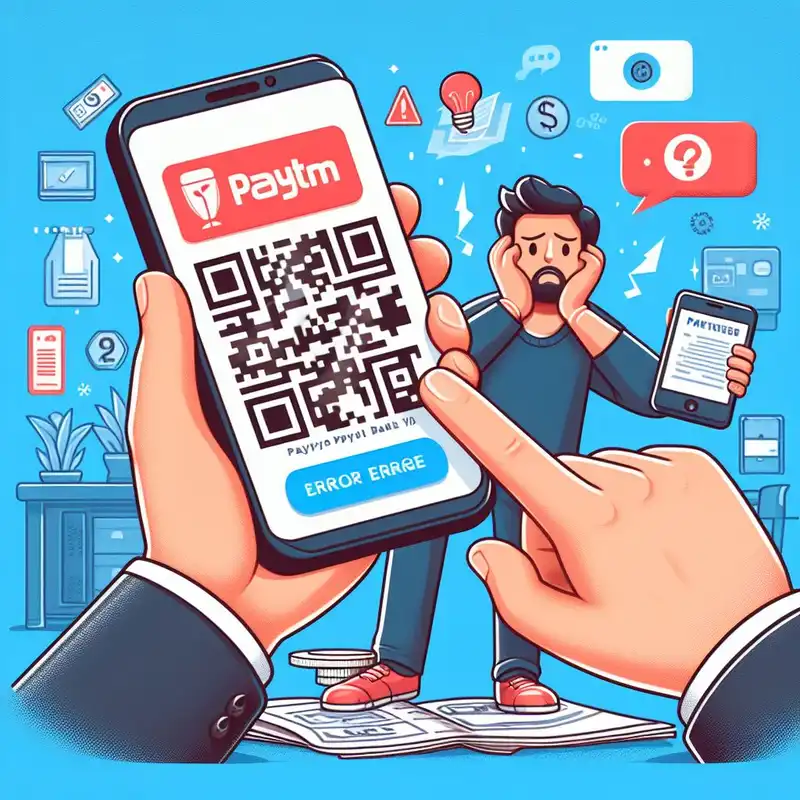
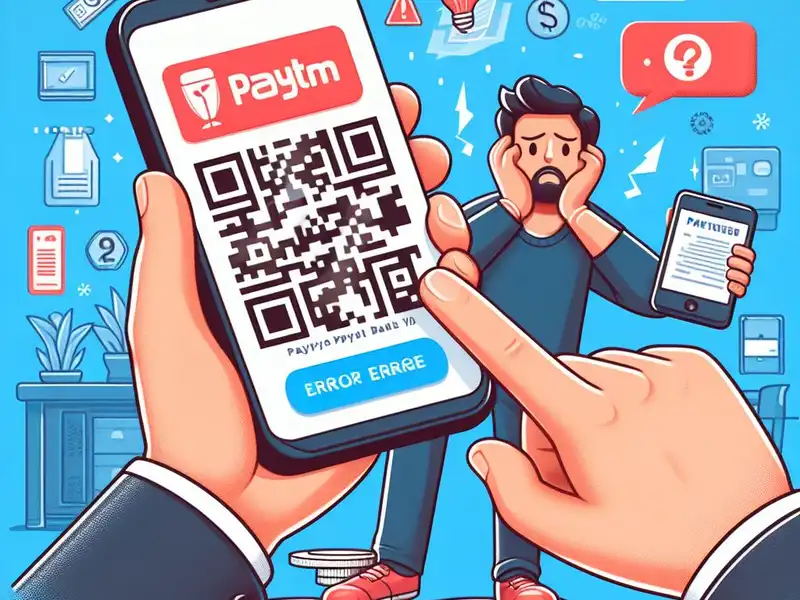
fix: Distinct image sizes in blog posts

diff --git a/components/PostCollectionBoxed.tsx b/components/PostCollectionBoxed.tsx
@@ -22,7 +22,7 @@ const BlogCard = ({ post }) => {
     <>
       <div className="w-full px-4 md:w-1/2 lg:w-1/3">
         <div className="mb-10 w-full">
-          <div className="mb-8 overflow-hidden rounded relative">
+          <div className="mb-4 overflow-hidden rounded relative">
             <Image
               width={700}
               height={480}

diff --git a/README.md b/README.md
@@ -2,4 +2,11 @@
 
 This is a repository to create new Blog, using NextJS. This repository is a customized clone of [the original repository](https://github.com/timlrx/tailwind-nextjs-starter-blog).
 
+## Images
 
+To use image of proper size and extension, use following command:
+
+```bash
+convert /path/to/input/file.jpeg -quality 50 -resize 800x -gravity center -crop 4:3 public/static/images/2024/01/output.webp
+
+```
